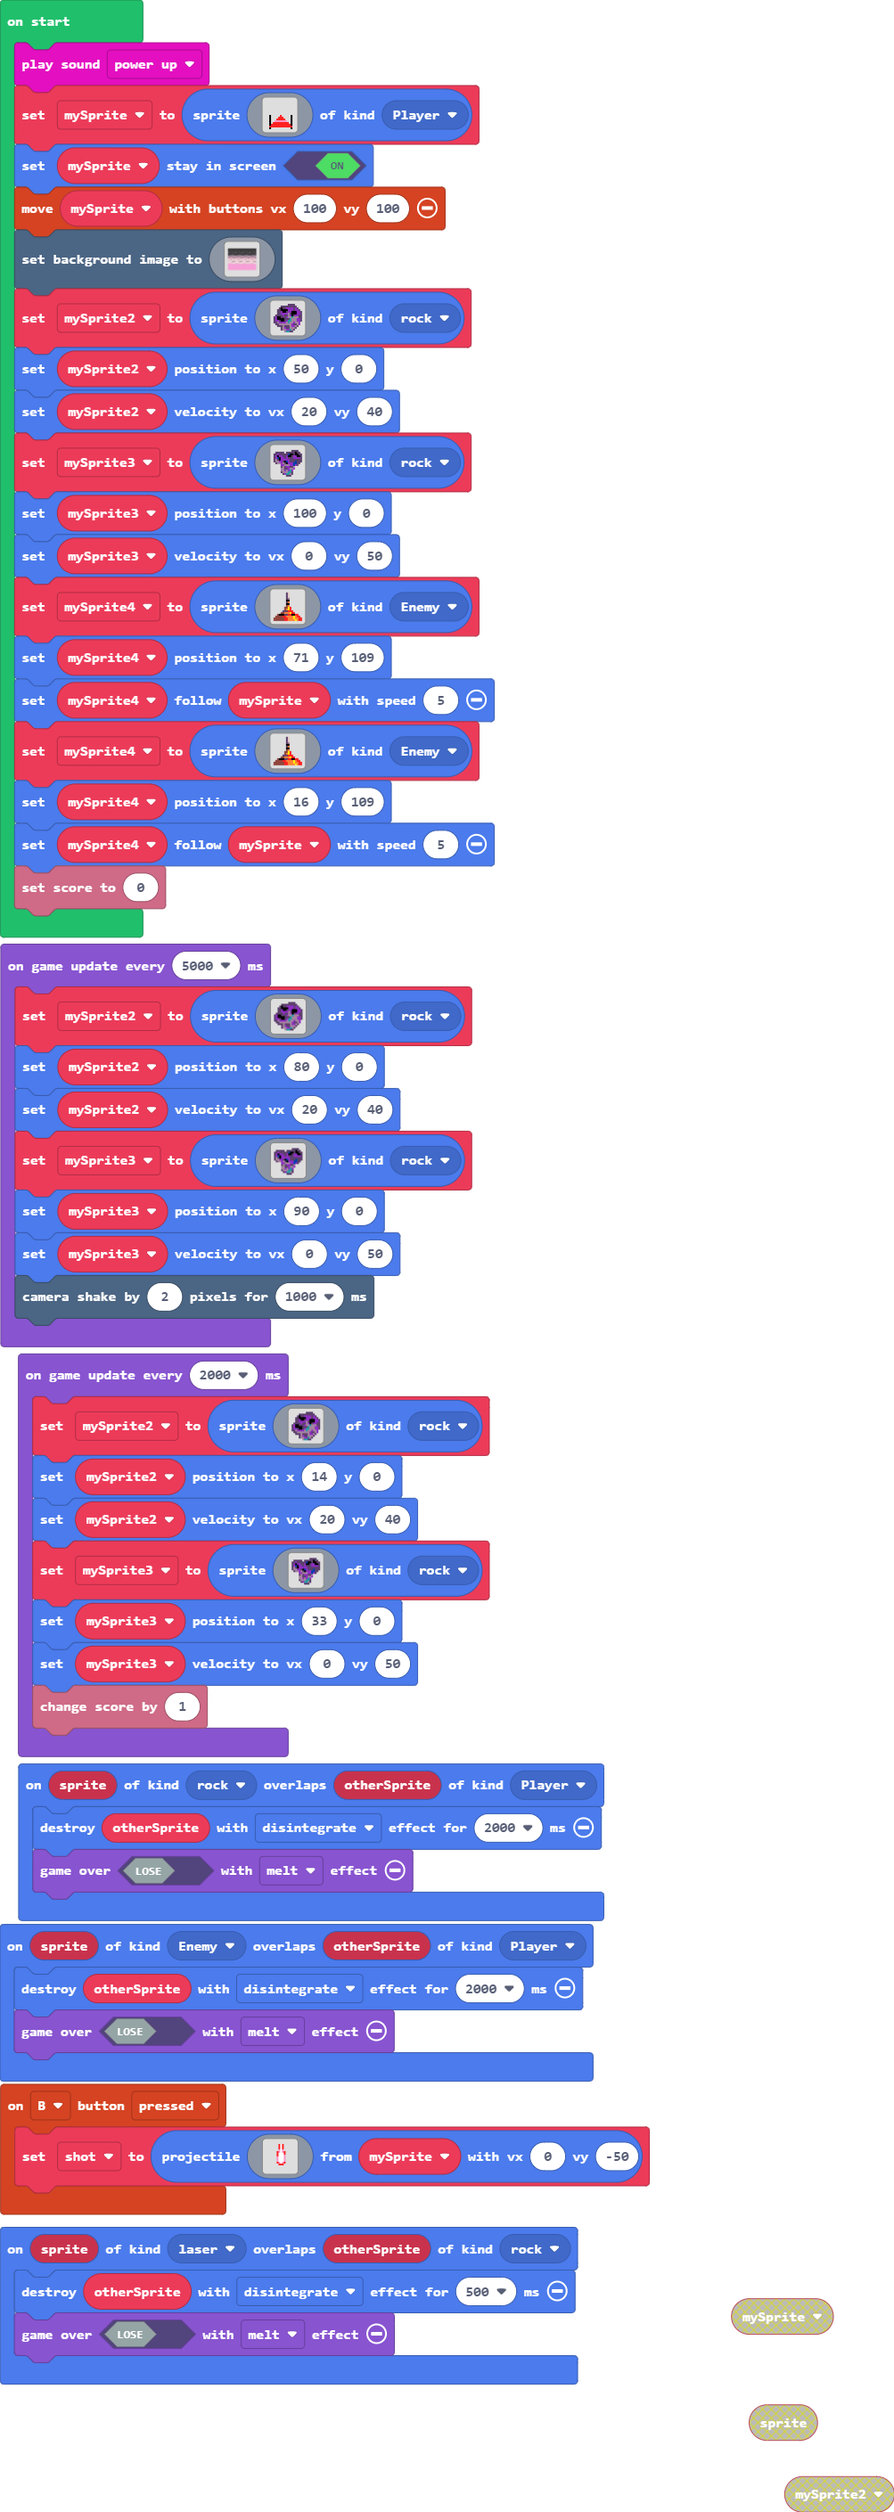
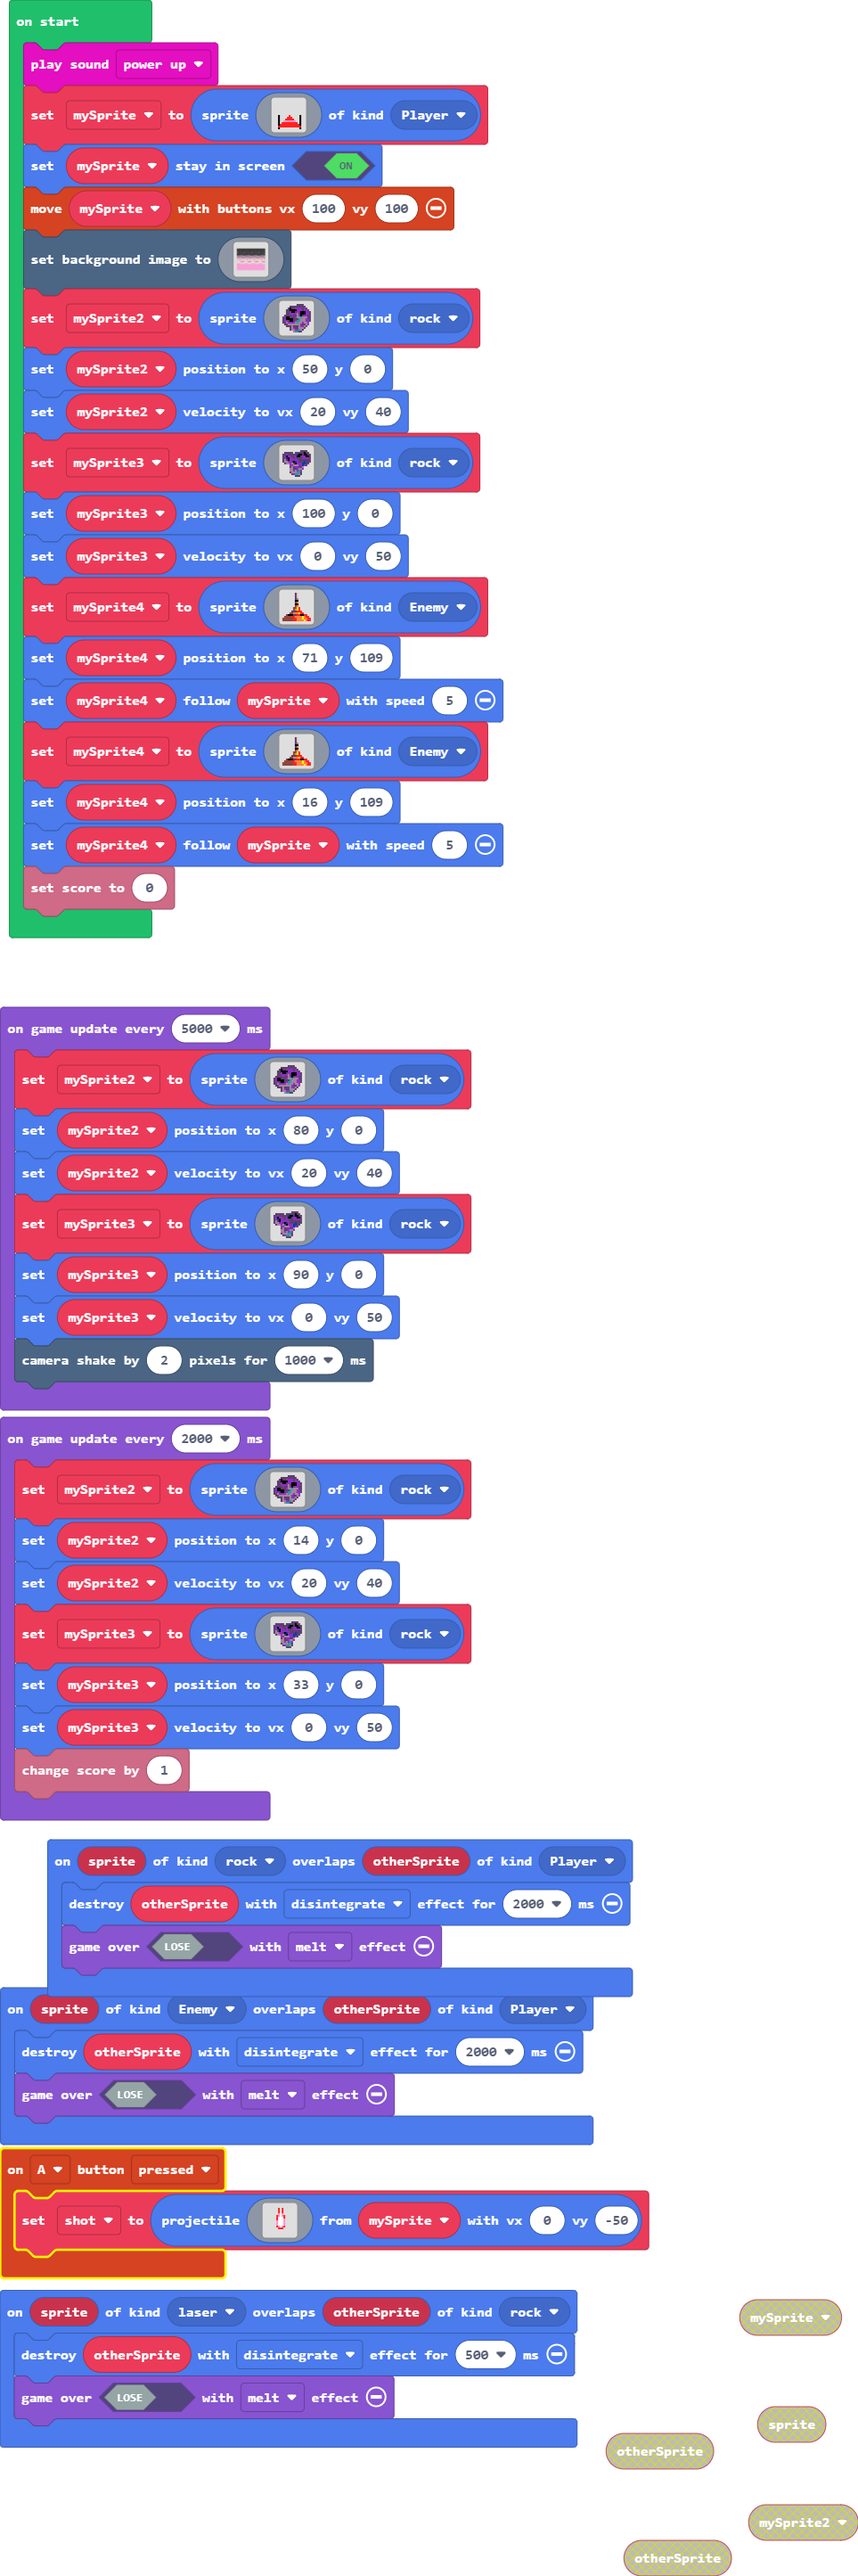
Update pxt.json, main.blocks, main.ts

diff --git a/main.ts b/main.ts
@@ -6,7 +6,7 @@ sprites.onOverlap(SpriteKind.laser, SpriteKind.rock, function (sprite, otherSpri
     otherSprite.destroy(effects.disintegrate, 500)
     game.over(false, effects.melt)
 })
-controller.B.onEvent(ControllerButtonEvent.Pressed, function () {
+controller.A.onEvent(ControllerButtonEvent.Pressed, function () {
     shot = sprites.createProjectileFromSprite(assets.image`Shot`, mySprite, 0, -50)
 })
 sprites.onOverlap(SpriteKind.rock, SpriteKind.Player, function (sprite, otherSprite) {
